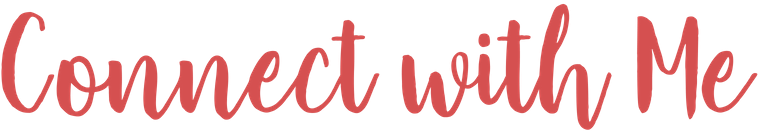
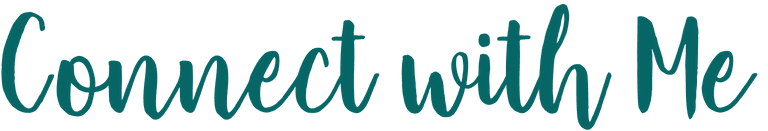
[change] Theme updated

Changed region(s): [[0.0, 0.0305, 1.0, 1.0]]

diff --git a/README.md b/README.md
@@ -1,20 +1,20 @@
 <!-- ----------- HEAD SECTION ------------ -->
 
-![banner.png](./images/github-banner.png)
-![-------------------------------------------------------------](https://raw.githubusercontent.com/andreasbm/readme/master/assets/lines/rainbow.png)
+<!-- ![banner.png](./images/github-banner.png)
 
+![-----------------------------------------------------](https://raw.githubusercontent.com/andreasbm/readme/master/assets/lines/aqua.png) -->
 
 <p align="center">
-  <img src="https://readme-typing-svg.herokuapp.com?color=F76800FF&size=30&center=true&vCenter=true&width=550&height=70&lines=Hey+There+👋🏻+I'm+Aryaman;+Open+Source+Enthusiast+☀;Full+Stack+Developer+💻;">
+  <img src="https://readme-typing-svg.herokuapp.com?color=088F8F&size=30&center=true&vCenter=true&width=550&height=70&lines=Hey+There+👋🏻+I'm+Aryaman;+Open+Source+Enthusiast+☀;Full+Stack+Developer+💻;">
 </p>
 
-![-------------------------------------------------------------](https://raw.githubusercontent.com/andreasbm/readme/master/assets/lines/rainbow.png)
+![-----------------------------------------------------](https://raw.githubusercontent.com/andreasbm/readme/master/assets/lines/aqua.png)
 
-![background.png](./images/github-back.jpg)
+![background.png](./images/github-back.png)
 
 <br>
 
-![-------------------------------------------------------------](https://raw.githubusercontent.com/andreasbm/readme/master/assets/lines/rainbow.png)
+![-----------------------------------------------------](https://raw.githubusercontent.com/andreasbm/readme/master/assets/lines/aqua.png)
 
 <!-- ----------- HEAD SECTION END ------------ -->
 
@@ -22,19 +22,19 @@
 
 ![C](https://img.shields.io/badge/c-%2300599C.svg?style=for-the-badge&logo=c&logoColor=white) ![C++](https://img.shields.io/badge/c++-%2300599C.svg?style=for-the-badge&logo=c%2B%2B&logoColor=white) ![Python](https://img.shields.io/badge/python-3670A0?style=for-the-badge&logo=python&logoColor=ffdd54) ![JavaScript](https://img.shields.io/badge/javascript-%23323330.svg?style=for-the-badge&logo=javascript&logoColor=%23F7DF1E) ![HTML5](https://img.shields.io/badge/html5-%23E34F26.svg?style=for-the-badge&logo=html5&logoColor=white) ![CSS3](https://img.shields.io/badge/css3-%231572B6.svg?style=for-the-badge&logo=css3&logoColor=white) ![Bootstrap](https://img.shields.io/badge/bootstrap-%23563D7C.svg?style=for-the-badge&logo=bootstrap&logoColor=white) ![jQuery](https://img.shields.io/badge/jquery-%230769AD.svg?style=for-the-badge&logo=jquery&logoColor=white) ![Django](https://img.shields.io/badge/django-%23092E20.svg?style=for-the-badge&logo=django&logoColor=white) ![DjangoREST](https://img.shields.io/badge/DJANGO-REST-ff1709?style=for-the-badge&logo=django&logoColor=white&color=ff1709&labelColor=gray) ![React](https://img.shields.io/badge/react-%2320232a.svg?style=for-the-badge&logo=react&logoColor=%2361DAFB) ![MySQL](https://img.shields.io/badge/mysql-%2300f.svg?style=for-the-badge&logo=mysql&logoColor=white) ![Postgres](https://img.shields.io/badge/postgres-%23316192.svg?style=for-the-badge&logo=postgresql&logoColor=white) ![Visual Studio Code](https://img.shields.io/badge/Visual%20Studio%20Code-0078d7.svg?style=for-the-badge&logo=visual-studio-code&logoColor=white) ![Git](https://img.shields.io/badge/git-%23F05033.svg?style=for-the-badge&logo=git&logoColor=white) ![GitHub Actions](https://img.shields.io/badge/githubactions-%232671E5.svg?style=for-the-badge&logo=githubactions&logoColor=white) ![Postman](https://img.shields.io/badge/Postman-FF6C37?style=for-the-badge&logo=postman&logoColor=white) ![Swagger](https://img.shields.io/badge/-Swagger-%23Clojure?style=for-the-badge&logo=swagger&logoColor=white) ![Docker](https://img.shields.io/badge/docker-%230db7ed.svg?style=for-the-badge&logo=docker&logoColor=white) ![Heroku](https://img.shields.io/badge/heroku-%23430098.svg?style=for-the-badge&logo=heroku&logoColor=white) ![Linux](https://img.shields.io/badge/Linux-FCC624?style=for-the-badge&logo=linux&logoColor=black)
 
-![-------------------------------------------------------------](https://raw.githubusercontent.com/andreasbm/readme/master/assets/lines/rainbow.png)
+![-----------------------------------------------------](https://raw.githubusercontent.com/andreasbm/readme/master/assets/lines/aqua.png)
 
 <!-- ----------- TECH STACK SECTION END------------ -->
 
 <!-- ----------- GITHUB STATS SECTION ------------ -->
 
-<p align ="center">&nbsp;<img align="center" src="https://github-readme-stats.vercel.app/api?username=Aryamanz29&show_icons=true&count_private=true&theme=ayu-mirage" />
+<p align ="center">&nbsp;<img align="center" src="https://github-readme-stats.vercel.app/api?username=Aryamanz29&show_icons=true&count_private=true&theme=gotham" />
 
-<p align="center"><img align="center" src="http://github-readme-streak-stats.herokuapp.com?user=Aryamanz29&theme=ayu-mirage" />
+<p align="center"><img align="center" src="http://github-readme-streak-stats.herokuapp.com?user=Aryamanz29&theme=gotham" />
 
-[![Aryamans's GitHub activity graph](https://activity-graph.herokuapp.com/graph?username=Aryamanz29&theme=one-dark)](https://github.com/ashutosh00710/github-readme-activity-graph)
+[![Aryamans's GitHub activity graph](https://activity-graph.herokuapp.com/graph?username=Aryamanz29&theme=gotham)](https://github.com/ashutosh00710/github-readme-activity-graph)
 
-![-------------------------------------------------------------](https://raw.githubusercontent.com/andreasbm/readme/master/assets/lines/rainbow.png)
+![-----------------------------------------------------](https://raw.githubusercontent.com/andreasbm/readme/master/assets/lines/aqua.png)
 
 <!-- ----------- GITHUB STATS SECTION END ------------ -->
 
@@ -49,12 +49,12 @@
 <a href="https://twitter.com/AryamanZ29" target="blank"><img src="https://img.shields.io/twitter/follow/AryamanZ29?logo=twitter&style=for-the-badge" alt="AryamanZ29" /></a>
 </p>
 
-![-------------------------------------------------------------](https://raw.githubusercontent.com/andreasbm/readme/master/assets/lines/rainbow.png)
+![-----------------------------------------------------](https://raw.githubusercontent.com/andreasbm/readme/master/assets/lines/aqua.png)
 
 <!-- ----------- CONNECT WITH ME SECTION END ------------ -->
 
 [twitter]: https://twitter.com/AryamanZ29
 [instagram]: https://www.instagram.com/aryaman_z29/
-[linkedin]: https://www.linkedin.com/in/aryaman-78382a12b
+[linkedin]: https://www.linkedin.com/in/aryamanz29
 [github]:https://github.com/Aryamanz29
 [gmail]:mailto:aryamanz29@gmail.com
